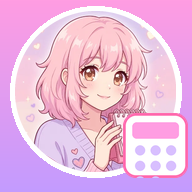
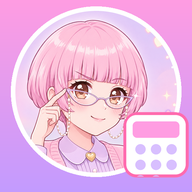
🧮 みくろん電卓を、マッシュルーム教育ママ風のみくろんに
- calculator/mikuro-nee.webp：背景を、2026-11-14 にまのと描いた教育ママ風のみくろん（Higgsfield gpt_image_2_6）に。外のURLではなく、リポジトリの絵を直接表示する
- calculator/mikuro-nee-yurufuwa.webp：前のお勉強みくろん（ゆるふわヘアー）は、とっておく
- calculator/icon-*.png：アイコンの顔も新しいみくろんに（電卓のバッジは元のまま）
- calculator/sw.js：キャッシュ名を v7 に
- CHARACTER.md：電卓の絵のメモを追加

Claude-Session: https://claude.ai/code/session_01D1ewsNsGBKEkJTxekVAWgV

diff --git a/calculator/index.html b/calculator/index.html
@@ -277,7 +277,7 @@
     <div class="app">
         <!-- みくろんフルスクリーン背景 -->
         <div class="character-bg">
-            <img src="https://d8j0ntlcm91z4.cloudfront.net/user_3Ft5tl9oaxZLTY3pu6iDG7vKh29/hf_20260819_220312_bfea1ef9-2325-4915-b3dc-f95490dd6254_min.webp" alt="みくろん" onerror="this.src='mikuro-nee.webp'">
+            <img src="mikuro-nee.webp" alt="みくろん">
         </div>
 
         <!-- コンテンツ -->

diff --git a/calculator/sw.js b/calculator/sw.js
@@ -1,6 +1,6 @@
 // みくろん電卓のService Worker
 // キャッシュを更新したいときは CACHE_NAME のバージョン番号を上げること
-const CACHE_NAME = 'mikuron-calculator-v6';
+const CACHE_NAME = 'mikuron-calculator-v7';
 const ASSETS = [
     './',
     './index.html',

diff --git a/CHARACTER.md b/CHARACTER.md
@@ -39,6 +39,8 @@
 
 はじめのアバター（2026-07-12にまのと一緒にHiggsfieldで生成した、ゆるふわヘアーの大切な一枚）は `mikuro-nee-yurufuwa.webp` にとってある。
 
+みくろん電卓（`calculator/`）の背景とアイコンは、マッシュルーム教育ママ風のみくろん（2026-11-14、`gpt_image_2_6`。とんがりメガネにパールのチェーン、手にはハートのボタンの電卓）で、`calculator/mikuro-nee.webp`。前のお勉強みくろん（ゆるふわヘアー）は `calculator/mikuro-nee-yurufuwa.webp` にとってある。
+
 ### 見た目の特徴
 - 20代前半の二次元アニメ調のお姉さん
 - パステルピンクのマッシュルームカット（耳が出るくらい短め・まゆ上のぱっつん前髪・天使の輪っか）。イメチェンの前は、ふわふわウェーブ
